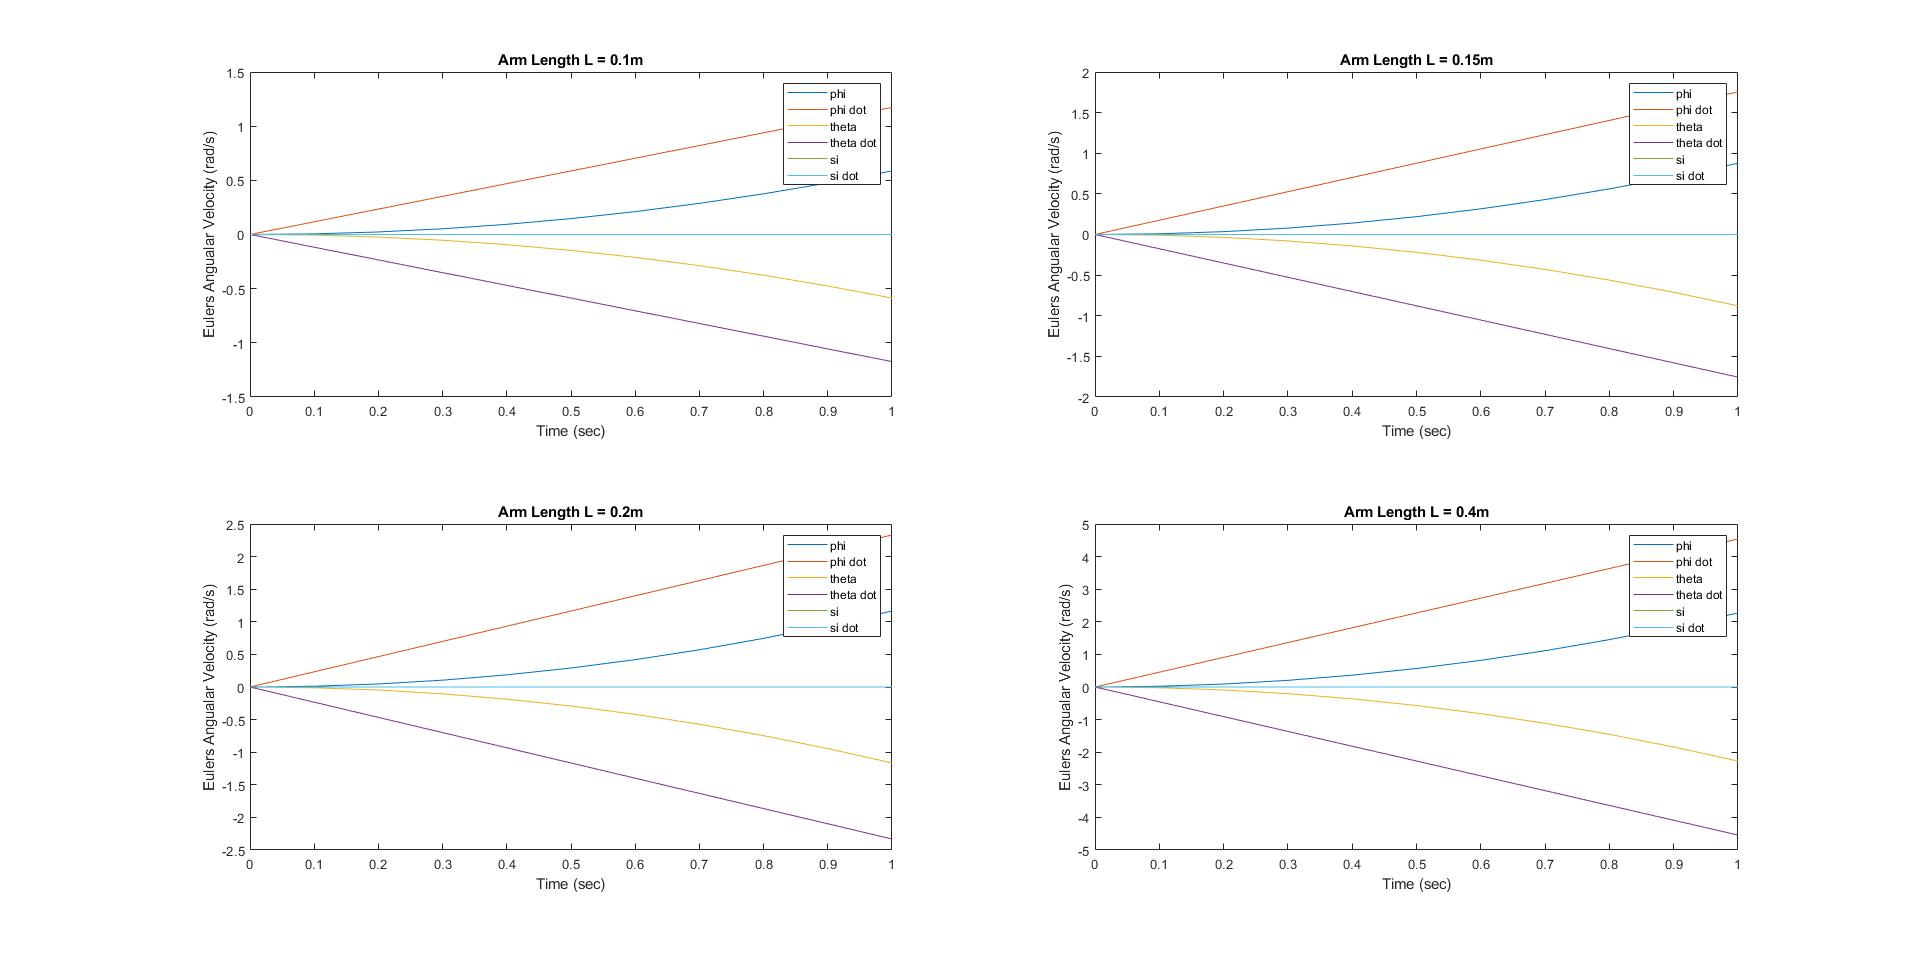
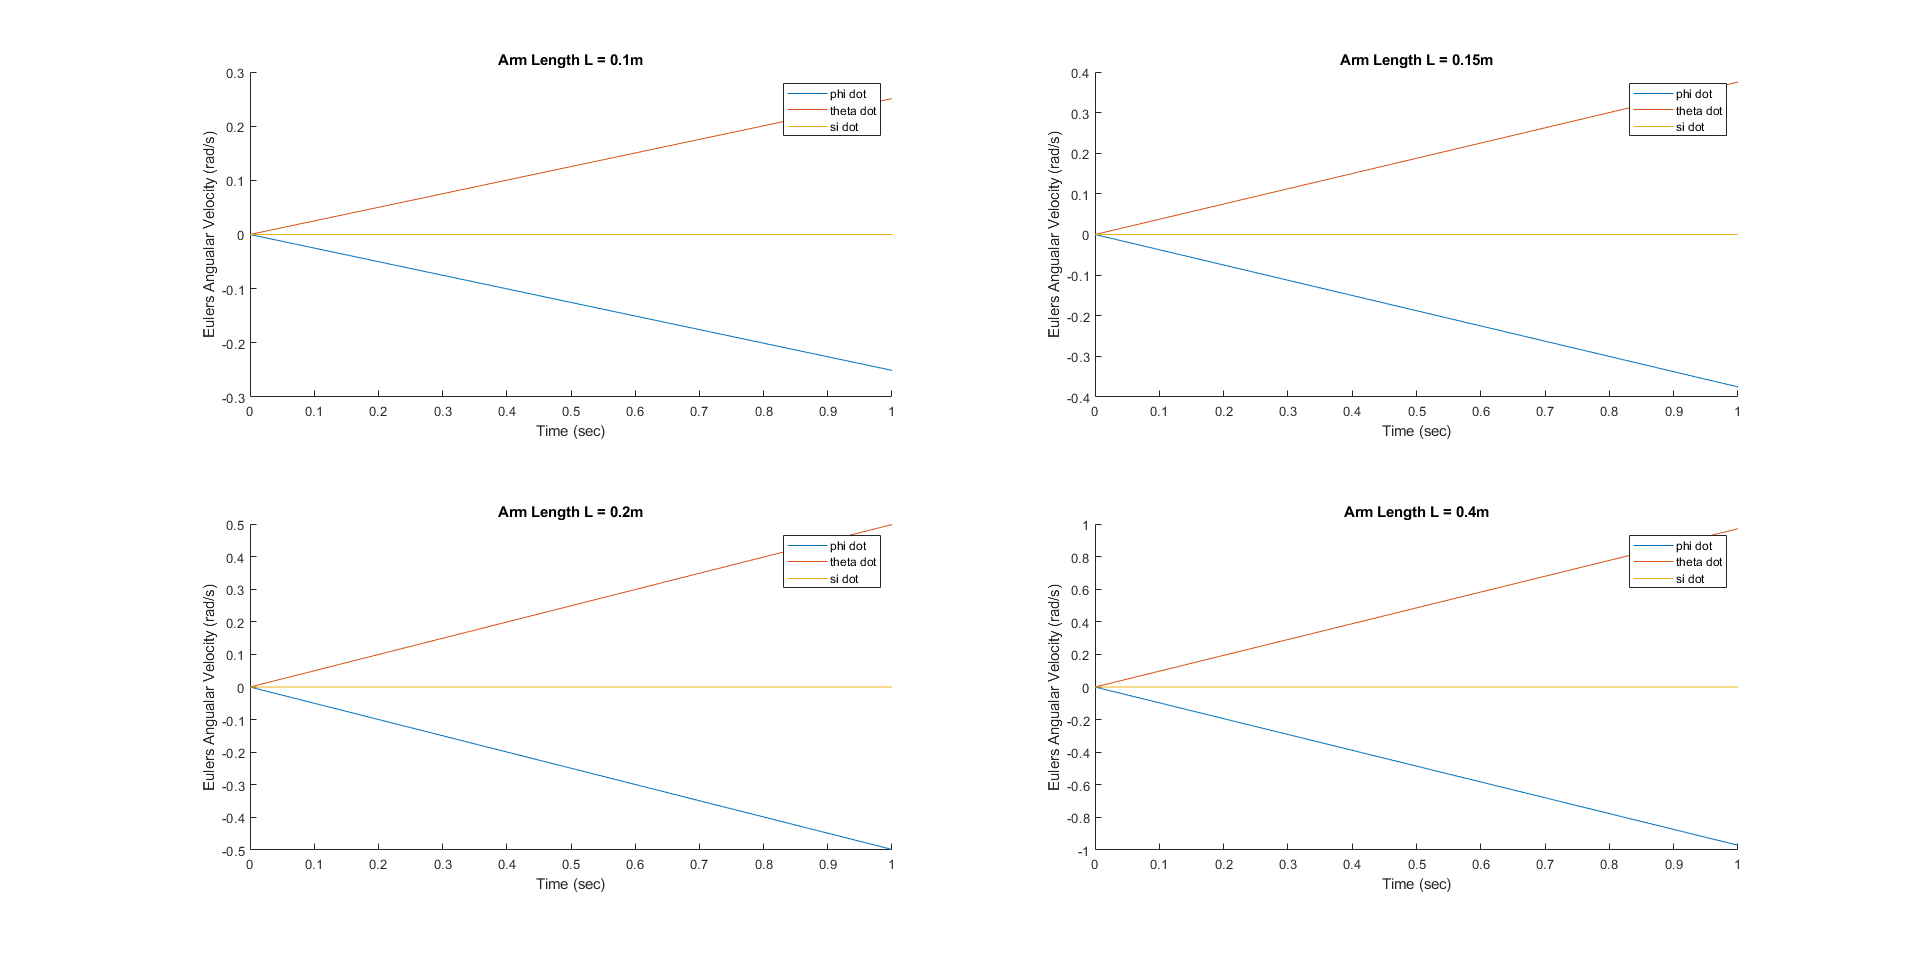
verified code

diff --git a/MATLAB/VTOL_MODEL_REV11_Symbolic.m b/MATLAB/VTOL_MODEL_REV11_Symbolic.m
@@ -17,15 +17,11 @@ clear all
 % Define a range of arm lengths L
 
 % diameter of prop 0.13 m so L has to be greater than 0.13
-L_values = [0.1, 0.15, 0.2, 0.4];  % You can adjust these values as needed
+L_values = [0.1, 0.15, 0.2];  % You can adjust these values as needed
 
-rpm1 = 26280 * (pi/60);
-rpm2 = 26280 * (pi/60);
-rpm3 = 26280 * (pi/60);
-rpm4 = 26280 * (pi/60);
+rpm = 26280 * (2*pi/60);
 % Initialize a cell array to store results for different L values
 results = cell(length(L_values), 1);
-
 
 for i = 1:length(L_values)
     L = L_values(i);
@@ -52,14 +48,11 @@ for i = 1:length(L_values)
     %% Translational EOM 
         syms m g T1(t) T2(t) T3(t) T4(t) W1(t) W2(t) W3(t) W4(t) t kt
         Fg=[0;0;m*g]; % airplane weight 
-        m= 0.300;
+        g = 9.81;
+        m= 0.468;
         Fd=0; % drag =0 
-        kt=3.7102e-5;
-    % 4 speeds for each motor
-        W1(t) ;
-        W2(t) ;
-        W3(t) ;
-        W4(t) ;
+        kt=2.98e-6;
+    
     % Thrust as a function of time given motor speed
         T1(t)=W1(t)^2*kt ;
         T2(t)=W2(t)^2*kt ;
@@ -68,11 +61,19 @@ for i = 1:length(L_values)
         F_thrust= RGb*[0;0;T1(t)+T2(t)+T3(t)+T4(t)]; % Total thrust 
     % Final Equation of motion
         Acc_G=(1/m)*(Fg-F_thrust - Fd); % Translation EOM (X_dot_dot; Y_dot_dot; Z_dot_dot)
-
+        % Acc_G_str = string(Acc_G);
+        % Acc_G_str=strrep(Acc_G_str,'phi(t)','X(1)');
+        % Acc_G_str=strrep(Acc_G_str,'theta(t)','X(3)');
+        % Acc_G_str=strrep(Acc_G_str,'si(t)','X(5)');
+        % Acc_G_str=strrep(Acc_G_str,'W1(t)','6207');
+        % Acc_G_str=strrep(Acc_G_str,'W2(t)','6207');
+        % Acc_G_str=strrep(Acc_G_str,'W3(t)','6207');
+        % Acc_G_str=strrep(Acc_G_str,'W4(t)','6207');
+        % Acc_G_str
     %% Rotational EOM 
-        I=[0.224 0 0; 
-            0 0.224 0; 
-            0 0 0.224]; %Moment of inertia matrix
+        I=[4.856e-3 0 0; 
+            0 4.856e-3 0; 
+            0 0 8.801e-3]; %Moment of inertia matrix
 
 
     % Position of each motor relative to body frame from CG
@@ -81,7 +82,7 @@ for i = 1:length(L_values)
         P3=[-L;0;0];
         P4=[0;-L;0];
 
-        I = update_inertia_tensor(I,[P1,P2,P3,P4],[0.05,0.05,0.05,0.05]);
+        % I = update_inertia_tensor(I,[P1,P2,P3,P4],[0.05,0.05,0.05,0.05]);
     %Motors moment arm contribution in body axis frame
         Tm1=cross(P1,[0;0;-T1(t)]);
         Tm2=cross(P2,[0;0;-T2(t)]);
@@ -89,7 +90,7 @@ for i = 1:length(L_values)
         Tm4=cross(P4,[0;0;-T4(t)]);
         Tm_pitch_roll=Tm1+Tm2+Tm3+Tm4;
     %kd is drag torque proportionality constant
-        kd=7.6933e-07;
+        kd=1.140e-07;
 
     % rotation direction of each motor. +ve=cw, -ve=ccw
     % Mi corresponds to Pi above
@@ -136,10 +137,10 @@ for i = 1:length(L_values)
         w_dot_str=strrep(w_dot_str,'si_derivative(t)','X(6)');
         w_dot_str=strrep(w_dot_str,'phi_derivative(t)','X(2)');
         w_dot_str=strrep(w_dot_str,'theta_derivative(t)','X(4)');
-        w_dot_str=strrep(w_dot_str,'W1(t)',num2str(rpm1/20));
-        w_dot_str=strrep(w_dot_str,'W2(t)',num2str(rpm1/20));
-        w_dot_str=strrep(w_dot_str,'W3(t)',num2str(rpm1/5));
-        w_dot_str=strrep(w_dot_str,'W4(t)',num2str(rpm1/5));
+        w_dot_str=strrep(w_dot_str,'W1(t)','655');
+        w_dot_str=strrep(w_dot_str,'W2(t)','655');
+        w_dot_str=strrep(w_dot_str,'W3(t)','650');
+        w_dot_str=strrep(w_dot_str,'W4(t)','650');
 
     w_dot_str;
     % kt 
@@ -154,8 +155,37 @@ for i = 1:length(L_values)
     results{i} = {L, t, X};
 end
 
+%% Create arrays to store numerical values of Acc_G for each simulation
+acc_G_values = cell(length(L_values), 1);
 
-% Create arrays to store maximum values and corresponding L values
+for i = 1:length(L_values)
+    X = results{i}{3};  % Extract the state variable X
+    t = results{i}{2};  % Extract the time vector
+
+    % Evaluate numerical values of Acc_G using obtained X values
+    acc_G_numeric = zeros(length(t), 3);
+    for j = 1:length(t)
+        phi_val = num2str(X(j, 1));
+        theta_val = num2str(X(j, 3));
+        si_val = num2str(X(j, 5));
+        W1_val = string(6207);
+        W2_val = string(6207);
+        W3_val = string(6207);
+        W4_val = string(6207);
+        Acc_G = string(Acc_G);
+        Acc_G=strrep(Acc_G,'phi(t)','X(1)');
+        Acc_G=strrep(Acc_G,'theta(t)','X(3)');
+        Acc_G=strrep(Acc_G,'si(t)','X(5)');
+        Acc_G=strrep(Acc_G,'W1(t)','655');
+        Acc_G=strrep(Acc_G,'W2(t)','655');
+        Acc_G=strrep(Acc_G,'W3(t)','650');
+        Acc_G=strrep(Acc_G,'W4(t)','650');
+        acc_G_numeric(j, :) = [eval(Acc_G(1,1)),eval(Acc_G(2,1)),eval(Acc_G(3,1))];
+    end
+    acc_G_values{i} = {t, acc_G_numeric};
+end
+
+%% Create arrays to store maximum values and corresponding L values
 max_values = zeros(length(L_values), 1);
 
 for i = 1:length(L_values)
@@ -179,14 +209,36 @@ for i = 1:length(L_values)
     X = results{i}{3};
 
     subplot(2, 2, i);  % Adjust the subplot layout as needed
-    plot(t, X);
+    hold on
+    plot(t, X(:,2));
+    plot(t, X(:,4));
+    plot(t, X(:,6));
     title(['Arm Length L = ', num2str(L),'m']);
     xlabel('Time (sec)');
     ylabel('Eulers Angualar Velocity (rad/s)');
-    legend();
+    legend('phi dot','theta dot','si dot');
+    hold off
 end
 
+%% Plot the results for different L values
+figure;
+for i = 1:length(L_values)
+    L = results{i}{1};
+    t_sim = results{i}{2};
+    acc_G_numeric = acc_G_values{i}{2};
 
+    subplot(2, 2, i);  % Adjust the subplot layout as needed
+    hold on
+    title(['Arm Length L = ', num2str(L),'m']);
+    xlabel('Time (sec)');
+    ylabel('Acceleration (m/s^2)');
+    % Plot numerical values of Acc_G
+    plot(t_sim, acc_G_numeric(:, 1), '--');
+    plot(t_sim, acc_G_numeric(:, 2), '--');
+    plot(t_sim, acc_G_numeric(:, 3), '--');
+    legend('X Acc_G','Y Acc_G','Z Acc_G');
+    hold off
+end
 %% Function 
 function inertia_tensor = update_inertia_tensor(inertia_tensor, point_mass_positions, point_masses)
     % Check if the input parameters are valid

diff --git a/MATLAB/VTOL_MODEL_REV9_Symbolic.m b/MATLAB/VTOL_MODEL_REV9_Symbolic.m
@@ -19,7 +19,7 @@ clear all
 % diameter of prop 0.13 m so L has to be greater than 0.13
 L_values = [0.1, 0.15, 0.2, 0.4];  % You can adjust these values as needed
 
-rpm = 26280 * (pi/60);
+rpm = 26280 * (2*pi/60);
 % Initialize a cell array to store results for different L values
 results = cell(length(L_values), 1);
 
@@ -65,7 +65,14 @@ for i = 1:length(L_values)
         F_thrust= RGb*[0;0;T1(t)+T2(t)+T3(t)+T4(t)]; % Total thrust 
     % Final Equation of motion
         Acc_G=(1/m)*(Fg-F_thrust - Fd); % Translation EOM (X_dot_dot; Y_dot_dot; Z_dot_dot)
-
+        % Acc_G_str = string(Acc_G)
+        % Acc_G_str=strrep(Acc_G_str,'phi(t)','X(1)');
+        % Acc_G_str=strrep(Acc_G_str,'theta(t)','X(3)');
+        % Acc_G_str=strrep(Acc_G_str,'si(t)','X(5)');
+        % Acc_G_str=strrep(Acc_G_str,'W1(t)',num2str(rpm*0.502));
+        % Acc_G_str=strrep(Acc_G_str,'W2(t)',num2str(rpm*0.502));
+        % Acc_G_str=strrep(Acc_G_str,'W3(t)',num2str(rpm*0.502));
+        % Acc_G_str=strrep(Acc_G_str,'W4(t)',num2str(rpm*0.502));
     %% Rotational EOM 
         I=[0.224 0 0; 
             0 0.224 0; 
@@ -133,10 +140,10 @@ for i = 1:length(L_values)
         w_dot_str=strrep(w_dot_str,'si_derivative(t)','X(6)');
         w_dot_str=strrep(w_dot_str,'phi_derivative(t)','X(2)');
         w_dot_str=strrep(w_dot_str,'theta_derivative(t)','X(4)');
-        w_dot_str=strrep(w_dot_str,'W1(t)',num2str(rpm/20));
-        w_dot_str=strrep(w_dot_str,'W2(t)',num2str(rpm/20));
-        w_dot_str=strrep(w_dot_str,'W3(t)',num2str(rpm/5));
-        w_dot_str=strrep(w_dot_str,'W4(t)',num2str(rpm/5));
+        w_dot_str=strrep(w_dot_str,'W1(t)',num2str(rpm*0.502));
+        w_dot_str=strrep(w_dot_str,'W2(t)',num2str(rpm*0.502));
+        w_dot_str=strrep(w_dot_str,'W3(t)',num2str(rpm*0.5));
+        w_dot_str=strrep(w_dot_str,'W4(t)',num2str(rpm*0.5));
 
     w_dot_str;
     % kt 
@@ -176,11 +183,15 @@ for i = 1:length(L_values)
     X = results{i}{3};
 
     subplot(2, 2, i);  % Adjust the subplot layout as needed
-    plot(t, X);
+    hold on
+    plot(t, X(:,2));
+    plot(t, X(:,4));
+    plot(t, X(:,6));
     title(['Arm Length L = ', num2str(L),'m']);
     xlabel('Time (sec)');
     ylabel('Eulers Angualar Velocity (rad/s)');
-    legend('phi','phi dot','theta','theta dot','si','si dot');
+    legend('phi dot','theta dot','si dot');
+    hold off
 end
 
 
